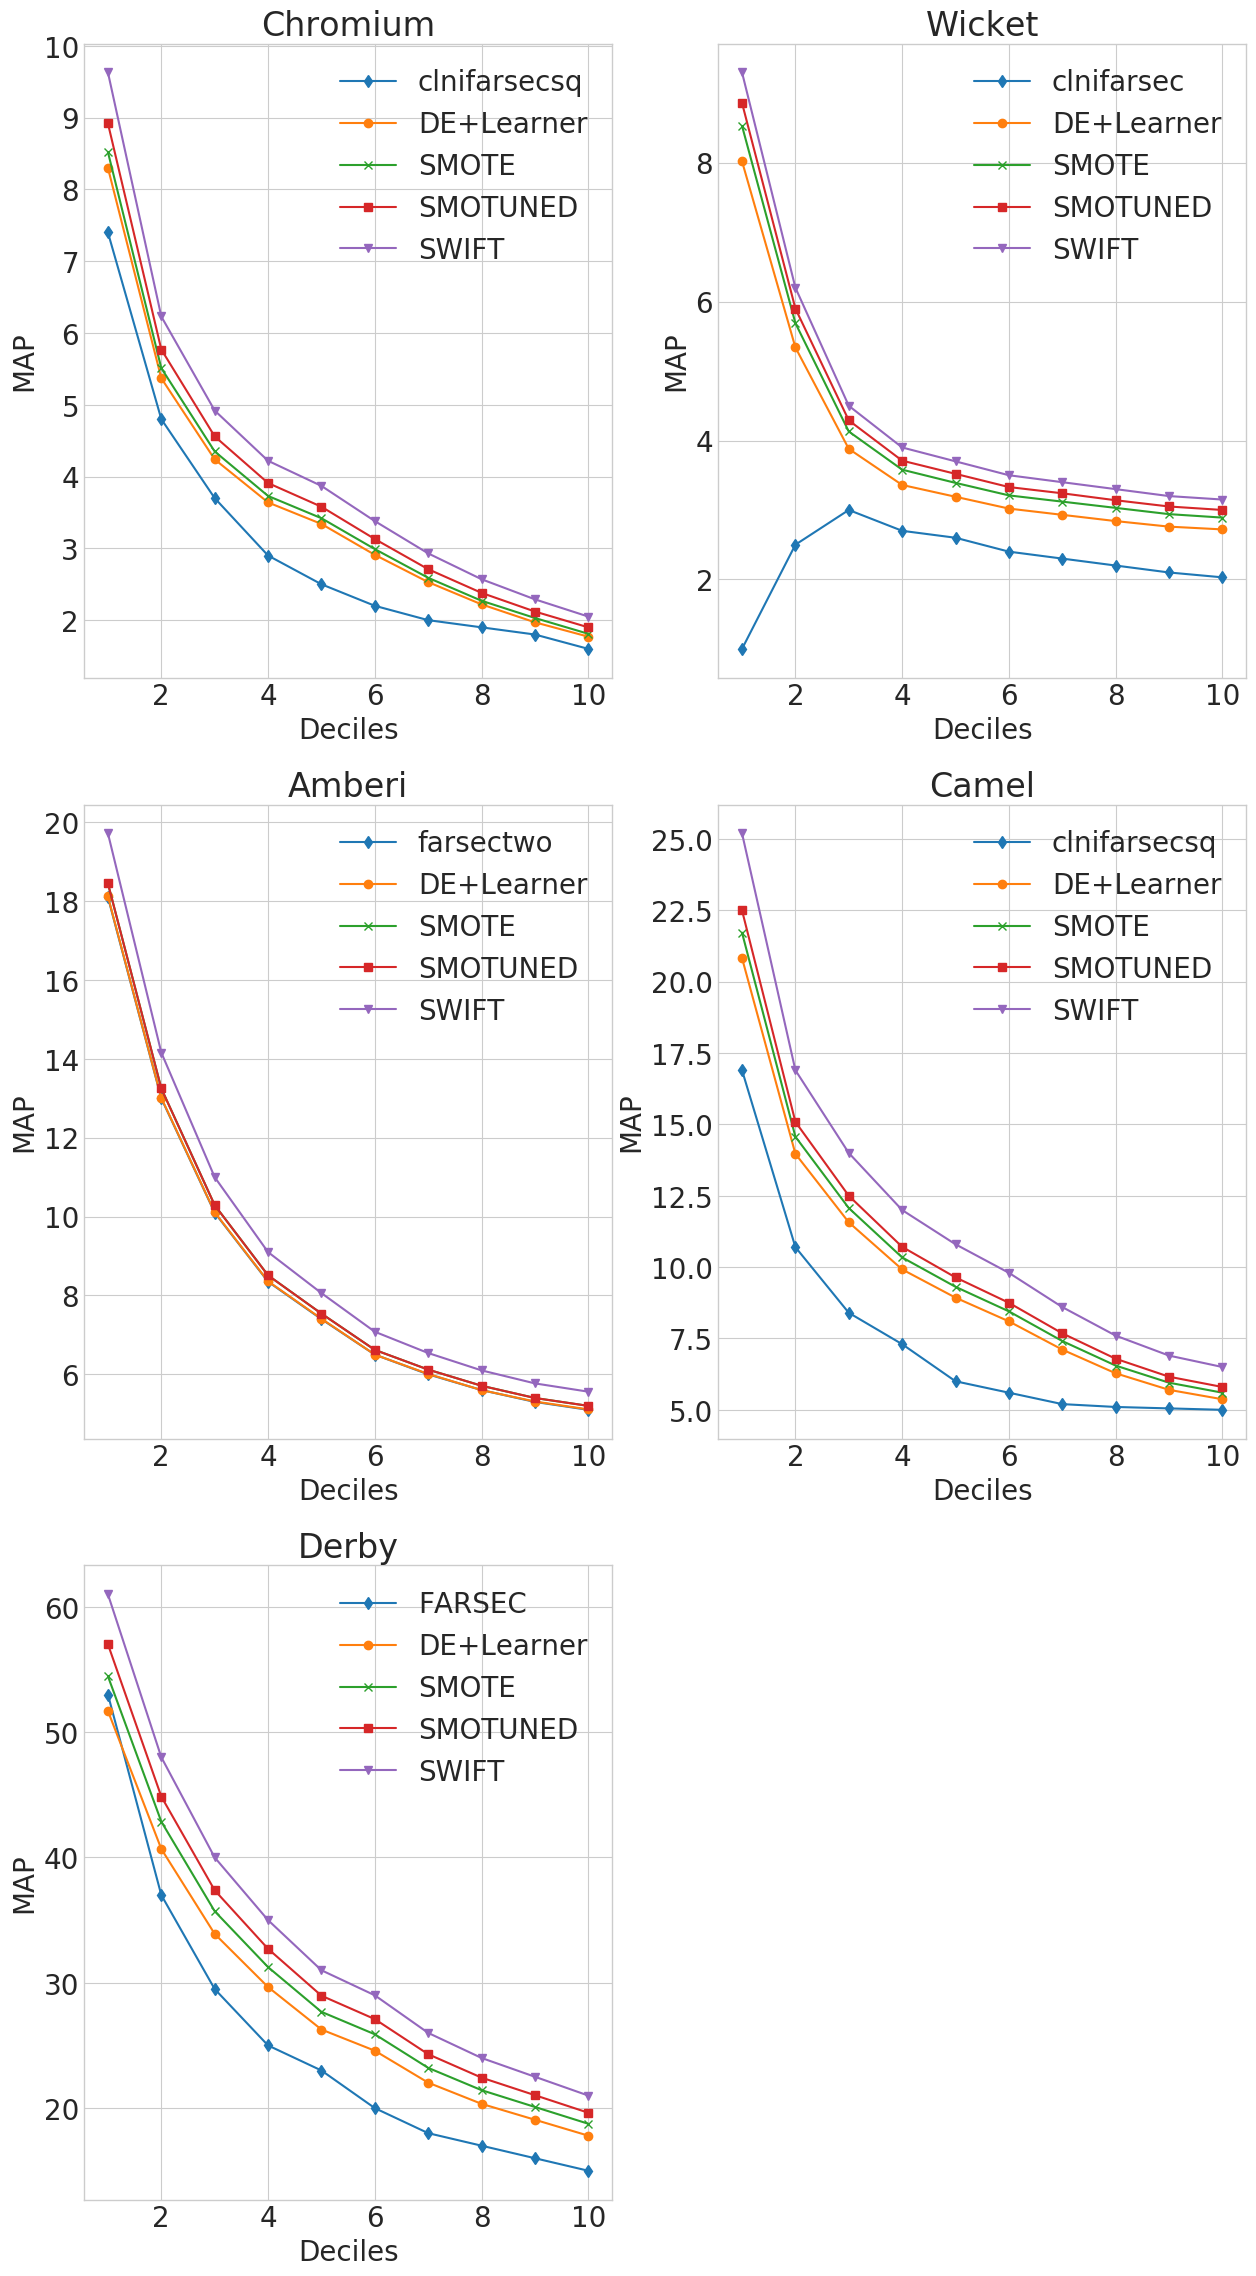
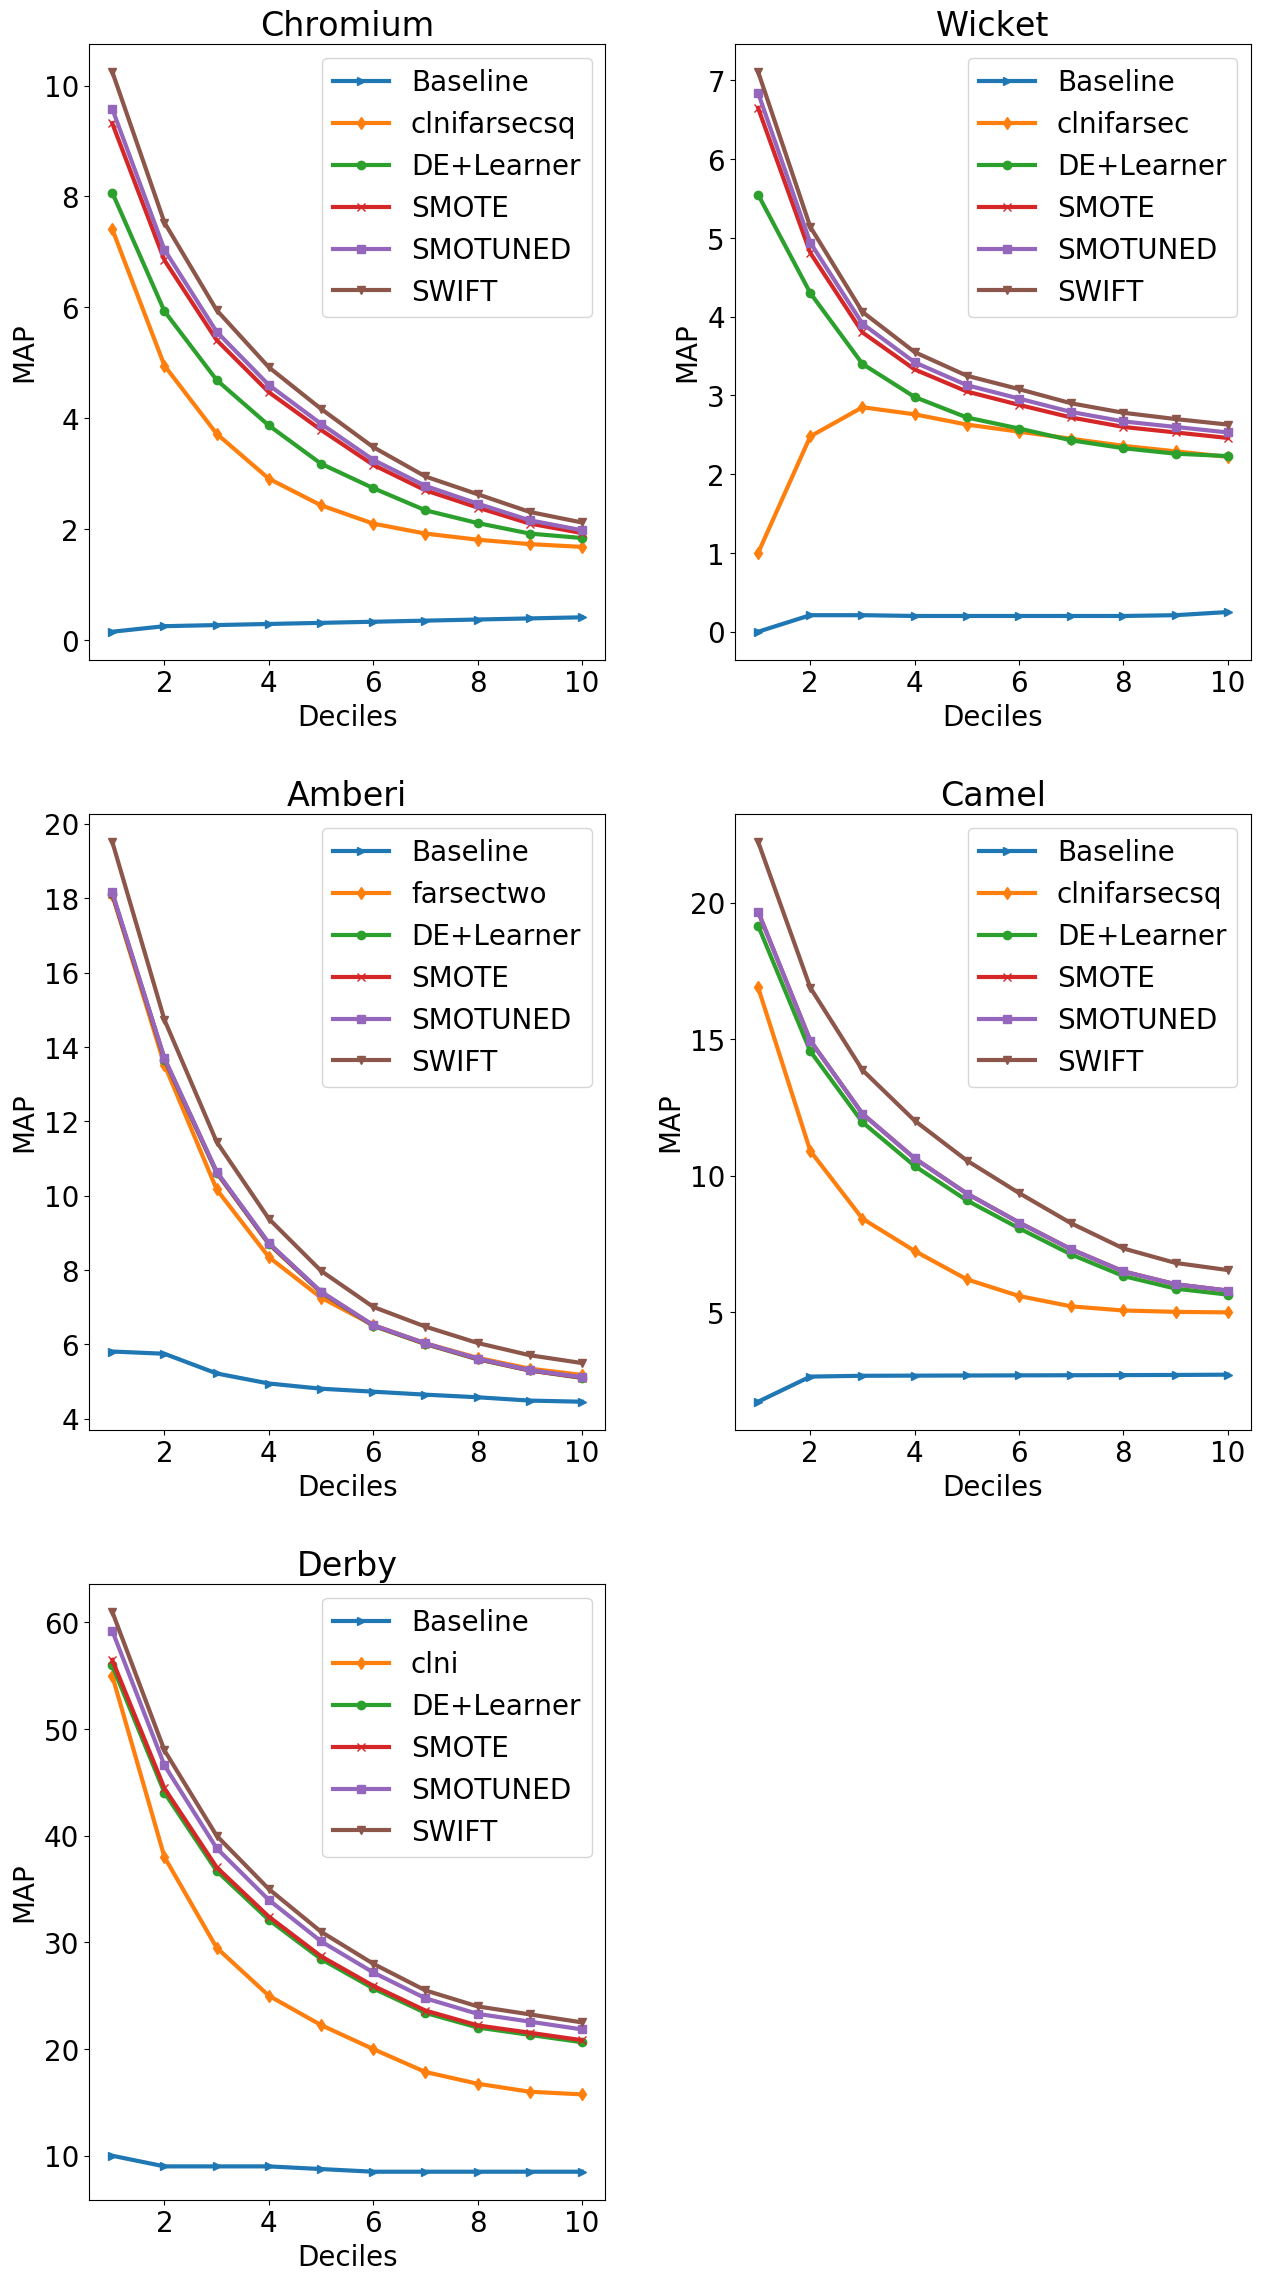
update plot

diff --git a/src/plots/MAP.py b/src/plots/MAP.py
@@ -1,6 +1,6 @@
 import matplotlib.pyplot as plt
 
-plt.style.use('seaborn-whitegrid')
+# plt.style.use('seaborn-whitegrid')
 
 font = {'family': 'normal',
         'size': 20}
@@ -8,106 +8,106 @@ plt.rc('font', **font)
 
 deciles = list(range(1, 11))
 
-# chromium_baseline = [0.1, 0.2, 0.3, 0.4, 0.5, 0.6, 0.7, 0.8, 0.9, 1.0]
-chromium_farsec_values = [7.4, 4.8, 3.7, 2.9, 2.5, 2.2, 2.0, 1.9, 1.8, 1.6]
-chromium_de_values = [8.3, 5.37, 4.24, 3.64, 3.34, 2.91, 2.53, 2.22, 1.97, 1.77]
-chromium_smote_values = [8.52, 5.51, 4.35, 3.73, 3.42, 2.99, 2.59, 2.27, 2.03, 1.81]
-chromium_smotuned_values = [8.92, 5.77, 4.56, 3.91, 3.58, 3.13, 2.71, 2.38, 2.12, 1.9]
-chromium_swift_values = [9.63, 6.23, 4.92, 4.22, 3.87, 3.38, 2.93, 2.57, 2.29, 2.05]
+chromium_baseline = [0.15, 0.25, 0.27, 0.29, 0.31, 0.33, 0.35, 0.37, 0.39, 0.41]
+chromium_farsec_values = [7.41, 4.95, 3.72, 2.91, 2.43, 2.10, 1.92, 1.81, 1.73, 1.68]
+chromium_de_values = [8.07, 5.93, 4.69, 3.87, 3.18, 2.74, 2.34, 2.11, 1.92, 1.84]
+chromium_smote_values = [9.32, 6.85, 5.41, 4.47, 3.79, 3.16, 2.7, 2.39, 2.1, 1.93]
+chromium_smotuned_values = [9.58, 7.04, 5.56, 4.6, 3.9, 3.25, 2.78, 2.46, 2.16, 1.98]
+chromium_swift_values = [10.25, 7.53, 5.95, 4.92, 4.17, 3.48, 2.95, 2.63, 2.31, 2.12]
 
 # fig,axs=plt.subplots(nrows,ncols,figsize=(width,height))
 fig, axs = plt.subplots(3, 2, figsize=(15, 28))
 
-# axs[0, 0].plot(deciles, chromium_baseline, '->', label='Baseline')
-axs[0, 0].plot(deciles, chromium_farsec_values, '-d', label='clnifarsecsq')
-axs[0, 0].plot(deciles, chromium_de_values, '-o', label='DE+Learner')
-axs[0, 0].plot(deciles, chromium_smote_values, '-x', label='SMOTE')
-axs[0, 0].plot(deciles, chromium_smotuned_values, '-s', label='SMOTUNED')
-axs[0, 0].plot(deciles, chromium_swift_values, '-v', label='SWIFT')
+axs[0, 0].plot(deciles, chromium_baseline, '->', label='Baseline', linewidth=3.0)
+axs[0, 0].plot(deciles, chromium_farsec_values, '-d', label='clnifarsecsq', linewidth=3.0)
+axs[0, 0].plot(deciles, chromium_de_values, '-o', label='DE+Learner', linewidth=3.0)
+axs[0, 0].plot(deciles, chromium_smote_values, '-x', label='SMOTE', linewidth=3.0)
+axs[0, 0].plot(deciles, chromium_smotuned_values, '-s', label='SMOTUNED', linewidth=3.0)
+axs[0, 0].plot(deciles, chromium_swift_values, '-v', label='SWIFT', linewidth=3.0)
 axs[0, 0].set(xlabel='Deciles',
               ylabel='MAP',
               title='Chromium')
 
 axs[0, 0].legend()
 
-# wicket_baseline = [0.1, 0.2, 0.3, 0.4, 0.5, 0.6, 0.7, 0.8, 0.9, 1.0]
-wicket_farsec_values = [1.0, 2.5, 3.0, 2.7, 2.6, 2.4, 2.3, 2.2, 2.1, 2.03]
-wicket_de_values = [8.02, 5.34, 3.88, 3.36, 3.19, 3.02, 2.93, 2.84, 2.76, 2.72]
-wicket_smote_values = [8.53, 5.69, 4.13, 3.58, 3.39, 3.21, 3.12, 3.03, 2.94, 2.89]
-wicket_smotuned_values = [8.86, 5.9, 4.29, 3.71, 3.52, 3.33, 3.24, 3.14, 3.05, 3.0]
-wicket_swift_values = [9.3, 6.2, 4.5, 3.9, 3.7, 3.5, 3.4, 3.3, 3.2, 3.15]
+wicket_baseline = [0.0, 0.21, 0.21, 0.2, 0.2, 0.2, 0.2, 0.2, 0.21, 0.25]
+wicket_farsec_values = [1.00, 2.48, 2.85, 2.76, 2.63, 2.54, 2.45, 2.36, 2.29, 2.22]
+wicket_de_values = [5.55, 4.3, 3.4, 2.98, 2.72, 2.58, 2.43, 2.33, 2.26, 2.23]
+wicket_smote_values = [6.65, 4.81, 3.8, 3.33, 3.05, 2.88, 2.72, 2.6, 2.53, 2.46]
+wicket_smotuned_values = [6.84, 4.94, 3.91, 3.42, 3.13, 2.96, 2.79, 2.67, 2.6, 2.53]
+wicket_swift_values = [7.11, 5.14, 4.06, 3.55, 3.25, 3.08, 2.9, 2.78, 2.7, 2.63]
 
-# axs[0, 1].plot(deciles, wicket_baseline, '->', label='Baseline')
-axs[0, 1].plot(deciles, wicket_farsec_values, '-d', label='clnifarsec')
-axs[0, 1].plot(deciles, wicket_de_values, '-o', label='DE+Learner')
-axs[0, 1].plot(deciles, wicket_smote_values, '-x', label='SMOTE')
-axs[0, 1].plot(deciles, wicket_smotuned_values, '-s', label='SMOTUNED')
-axs[0, 1].plot(deciles, wicket_swift_values, '-v', label='SWIFT')
+axs[0, 1].plot(deciles, wicket_baseline, '->', label='Baseline', linewidth=3.0)
+axs[0, 1].plot(deciles, wicket_farsec_values, '-d', label='clnifarsec', linewidth=3.0)
+axs[0, 1].plot(deciles, wicket_de_values, '-o', label='DE+Learner', linewidth=3.0)
+axs[0, 1].plot(deciles, wicket_smote_values, '-x', label='SMOTE', linewidth=3.0)
+axs[0, 1].plot(deciles, wicket_smotuned_values, '-s', label='SMOTUNED', linewidth=3.0)
+axs[0, 1].plot(deciles, wicket_swift_values, '-v', label='SWIFT', linewidth=3.0)
 axs[0, 1].set(xlabel='Deciles',
               ylabel='MAP',
               title='Wicket')
 
 axs[0, 1].legend()
 
-# amberi_baseline = [0.1, 0.2, 0.3, 0.4, 0.5, 0.6, 0.7, 0.8, 0.9, 1.0]
-amberi_farsec_values = [18.1, 13, 10.1, 8.35, 7.4, 6.5, 6.0, 5.6, 5.3, 5.1]
-amberi_de_values = [18.12, 13.01, 10.11, 8.36, 7.41, 6.5, 6.01, 5.6, 5.31, 5.11]
-amberi_smote_values = [18.45, 13.25, 10.29, 8.51, 7.54, 6.62, 6.12, 5.71, 5.4, 5.2]
-amberi_smotuned_values = [18.45, 13.25, 10.29, 8.51, 7.54, 6.62, 6.12, 5.71, 5.4, 5.2]
-amberi_swift_values = [19.72, 14.16, 11.0, 9.1, 8.06, 7.08, 6.54, 6.1, 5.77, 5.56]
+amberi_baseline = [5.81, 5.75, 5.22, 4.95, 4.81, 4.73, 4.65, 4.58, 4.49, 4.46]
+amberi_farsec_values = [18.10, 13.52, 10.17, 8.35, 7.26, 6.52, 6.03, 5.64, 5.35, 5.18]
+amberi_de_values = [18.11, 13.66, 10.62, 8.7, 7.4, 6.5, 6.01, 5.6, 5.3, 5.1]
+amberi_smote_values = [18.12, 13.68, 10.63, 8.71, 7.41, 6.51, 6.02, 5.61, 5.3, 5.11]
+amberi_smotuned_values = [18.16, 13.7, 10.65, 8.73, 7.42, 6.52, 6.03, 5.62, 5.31, 5.12]
+amberi_swift_values = [19.52, 14.73, 11.45, 9.38, 7.98, 7.01, 6.48, 6.04, 5.71, 5.5]
 
-# axs[1, 0].plot(deciles, amberi_baseline, '->', label='Baseline')
-axs[1, 0].plot(deciles, amberi_farsec_values, '-d', label='farsectwo')
-axs[1, 0].plot(deciles, amberi_de_values, '-o', label='DE+Learner')
-axs[1, 0].plot(deciles, amberi_smote_values, '-x', label='SMOTE')
-axs[1, 0].plot(deciles, amberi_smotuned_values, '-s', label='SMOTUNED')
-axs[1, 0].plot(deciles, amberi_swift_values, '-v', label='SWIFT')
+axs[1, 0].plot(deciles, amberi_baseline, '->', label='Baseline', linewidth=3.0)
+axs[1, 0].plot(deciles, amberi_farsec_values, '-d', label='farsectwo', linewidth=3.0)
+axs[1, 0].plot(deciles, amberi_de_values, '-o', label='DE+Learner', linewidth=3.0)
+axs[1, 0].plot(deciles, amberi_smote_values, '-x', label='SMOTE', linewidth=3.0)
+axs[1, 0].plot(deciles, amberi_smotuned_values, '-s', label='SMOTUNED', linewidth=3.0)
+axs[1, 0].plot(deciles, amberi_swift_values, '-v', label='SWIFT', linewidth=3.0)
 axs[1, 0].set(xlabel='Deciles',
               ylabel='MAP',
               title='Amberi')
 
 axs[1, 0].legend()
 
-# camel_baseline = [0.1, 0.2, 0.3, 0.4, 0.5, 0.6, 0.7, 0.8, 0.9, 1.0]
-camel_farsec_values = [16.9, 10.7, 8.4, 7.3, 6.0, 5.6, 5.2, 5.1, 5.05, 5.0]
-camel_de_values = [20.83, 13.97, 11.57, 9.92, 8.93, 8.1, 7.11, 6.28, 5.7, 5.37]
-camel_smote_values = [21.72, 14.57, 12.07, 10.34, 9.31, 8.45, 7.41, 6.55, 5.95, 5.6]
-camel_smotuned_values = [22.5, 15.09, 12.5, 10.71, 9.64, 8.75, 7.68, 6.79, 6.16, 5.8]
-camel_swift_values = [25.2, 16.9, 14, 12.0, 10.8, 9.8, 8.6, 7.6, 6.9, 6.5]
+camel_baseline = [1.73, 2.65, 2.68, 2.685, 2.690, 2.695, 2.70, 2.705, 2.71, 2.72]
+camel_farsec_values = [16.90, 10.91, 8.43, 7.25, 6.21, 5.60, 5.22, 5.07, 5.02, 5.00]
+camel_de_values = [19.16, 14.56, 11.96, 10.36, 9.1, 8.08, 7.12, 6.33, 5.87, 5.65]
+camel_smote_values = [19.67, 14.95, 12.27, 10.64, 9.35, 8.29, 7.31, 6.5, 6.03, 5.8]
+camel_smotuned_values = [19.67, 14.95, 12.27, 10.64, 9.35, 8.29, 7.31, 6.5, 6.03, 5.8]
+camel_swift_values = [22.23, 16.89, 13.87, 12.02, 10.56, 9.37, 8.26, 7.34, 6.81, 6.55]
 
-# axs[1, 1].plot(deciles, camel_baseline, '->', label='Baseline')
-axs[1, 1].plot(deciles, camel_farsec_values, '-d', label='clnifarsecsq')
-axs[1, 1].plot(deciles, camel_de_values, '-o', label='DE+Learner')
-axs[1, 1].plot(deciles, camel_smote_values, '-x', label='SMOTE')
-axs[1, 1].plot(deciles, camel_smotuned_values, '-s', label='SMOTUNED')
-axs[1, 1].plot(deciles, camel_swift_values, '-v', label='SWIFT')
+axs[1, 1].plot(deciles, camel_baseline, '->', label='Baseline', linewidth=3.0)
+axs[1, 1].plot(deciles, camel_farsec_values, '-d', label='clnifarsecsq', linewidth=3.0)
+axs[1, 1].plot(deciles, camel_de_values, '-o', label='DE+Learner', linewidth=3.0)
+axs[1, 1].plot(deciles, camel_smote_values, '-x', label='SMOTE', linewidth=3.0)
+axs[1, 1].plot(deciles, camel_smotuned_values, '-s', label='SMOTUNED', linewidth=3.0)
+axs[1, 1].plot(deciles, camel_swift_values, '-v', label='SWIFT', linewidth=3.0)
 axs[1, 1].set(xlabel='Deciles',
               ylabel='MAP',
               title='Camel')
 
 axs[1, 1].legend()
 
-# derby_baseline = [0.1, 0.2, 0.3, 0.4, 0.5, 0.6, 0.7, 0.8, 0.9, 1.0]
-derby_farsec_values = [53, 37, 29.5, 25, 23, 20, 18, 17, 16, 15]
-derby_de_values = [51.69, 40.68, 33.9, 29.66, 26.27, 24.58, 22.03, 20.34, 19.07, 17.8]
-derby_smote_values = [54.46, 42.86, 35.71, 31.25, 27.68, 25.89, 23.21, 21.43, 20.09, 18.75]
-derby_smotuned_values = [57.01, 44.86, 37.38, 32.71, 28.97, 27.1, 24.3, 22.43, 21.03, 19.63]
-derby_swift_values = [61, 48, 40, 35, 31, 29, 26, 24, 22.5, 21]
+derby_baseline = [10.00, 9.00, 9.00, 9.00, 8.75, 8.50, 8.50, 8.50, 8.50, 8.50]
+derby_farsec_values = [55.00, 38.00, 29.50, 25.00, 22.25, 20.00, 17.85, 16.75, 16.00, 15.75]
+derby_de_values = [55.96, 44.04, 36.7, 32.11, 28.44, 25.69, 23.39, 22.02, 21.33, 20.64]
+derby_smote_values = [56.48, 44.44, 37.04, 32.41, 28.7, 25.93, 23.61, 22.22, 21.53, 20.83]
+derby_smotuned_values = [59.22, 46.6, 38.83, 33.98, 30.1, 27.18, 24.76, 23.3, 22.57, 21.84]
+derby_swift_values = [61, 48, 40, 35, 31, 28, 25.50, 24, 23.25, 22.50]
 
-# axs[2, 0].plot(deciles, derby_baseline, '->', label='Baseline')
-axs[2, 0].plot(deciles, derby_farsec_values, '-d', label='FARSEC')
-axs[2, 0].plot(deciles, derby_de_values, '-o', label='DE+Learner')
-axs[2, 0].plot(deciles, derby_smote_values, '-x', label='SMOTE')
-axs[2, 0].plot(deciles, derby_smotuned_values, '-s', label='SMOTUNED')
-axs[2, 0].plot(deciles, derby_swift_values, '-v', label='SWIFT')
+axs[2, 0].plot(deciles, derby_baseline, '->', label='Baseline', linewidth=3.0)
+axs[2, 0].plot(deciles, derby_farsec_values, '-d', label='clni', linewidth=3.0)
+axs[2, 0].plot(deciles, derby_de_values, '-o', label='DE+Learner', linewidth=3.0)
+axs[2, 0].plot(deciles, derby_smote_values, '-x', label='SMOTE', linewidth=3.0)
+axs[2, 0].plot(deciles, derby_smotuned_values, '-s', label='SMOTUNED', linewidth=3.0)
+axs[2, 0].plot(deciles, derby_swift_values, '-v', label='SWIFT', linewidth=3.0)
 axs[2, 0].set(xlabel='Deciles',
               ylabel='MAP',
               title='Derby')
 
 axs[2, 0].legend()
 
-fig.subplots_adjust(hspace=0.2)
+fig.subplots_adjust(hspace=0.25, wspace=0.25)
 fig.delaxes(axs[2, 1])
 
 plt.savefig("MAP.png", bbox_inches='tight')
-plt.show()
+# plt.show()
